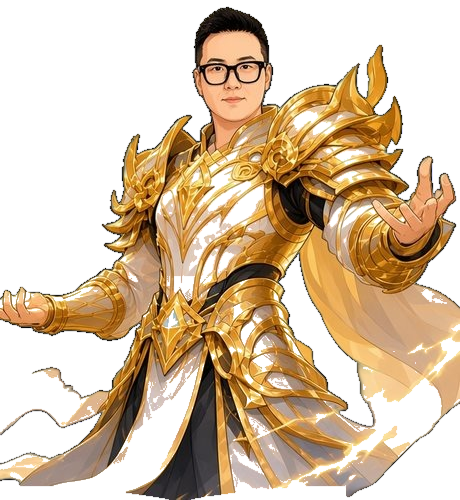
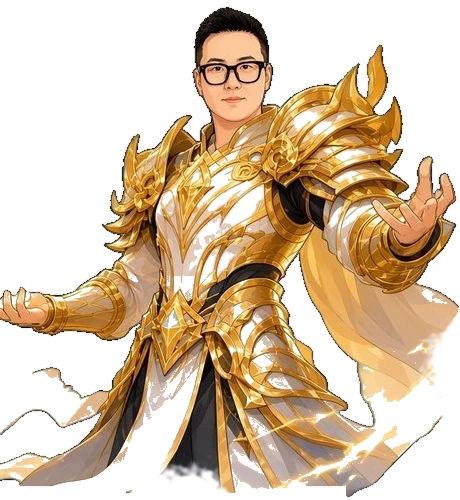
测试版：十连结果页排版和立绘边缘（xiyou-td-claude 42d8277）
Claude-Session: https://claude.ai/code/session_017LiBNHRAAN6uKehVK54nx1

Changed region(s): [[0.913, 0.6, 1.0, 0.84], [0.2739, 0.93, 0.5174, 1.0]]

diff --git a/js/depart.js b/js/depart.js
@@ -907,13 +907,26 @@
     }
     function placeFigures(list, box) {
       if (box.h < 520) {
-        var colsS = Math.min(5, Math.max(1, list.length)), rowsS = Math.ceil(list.length / colsS), placedS = [];
+        var rowsS = Math.ceil(list.length / 5), colsS = Math.max(1, Math.ceil(list.length / rowsS)), placedS = [];
         list.forEach(function (g, idx) {
           var col = idx % colsS, row = (idx / colsS) | 0, fw = box.w / colsS * 0.92, fh = box.h / rowsS * 0.92;
-          var cx = box.x + (col + 0.5) * (box.w / colsS), cy = box.y + (row + 0.55) * (box.h / rowsS);
+          var inRow = Math.min(colsS, list.length - row * colsS);                 // 最后一排人少时居中，不靠左
+          var cx = box.x + (box.w - inRow * (box.w / colsS)) / 2 + (col + 0.5) * (box.w / colsS), cy = box.y + (row + 0.55) * (box.h / rowsS);
           placedS.push({ id: g.id, n: g.n, unlock: g.unlock, label: g.label, x: cx - fw / 2, y: cy - fh / 2, w: fw, h: fh, z: row, ns: 0 });
         });
         return placedS;
+      }
+      if (land) {                                                   // 横屏大画面：五位以内站一排，再多站两排；谁也不压着谁，每人脚下留出写名字的地方
+        var nmH = Math.max(28, Math.min(44, box.h * 0.065)), rowsL = list.length <= 5 ? 1 : 2, topN = rowsL === 1 ? 0 : Math.floor(list.length / 2), rowH = box.h / rowsL, placedL = [];
+        list.forEach(function (g, idx) {
+          var row = rowsL === 1 ? 0 : (idx < topN ? 0 : 1), cnt = rowsL === 1 ? list.length : (row === 0 ? topN : list.length - topN), col = row === 0 ? idx : idx - topN;
+          var colW = box.w / Math.max(cnt, rowsL === 1 ? 3 : 4);
+          var fh = Math.min(rowH - nmH - 8, colW * 0.94 / 0.75, box.h * 0.6), fw = fh * 0.75;
+          var cx = box.x + (box.w - colW * cnt) / 2 + (col + 0.5) * colW;
+          var y = box.y + row * rowH + (rowH - nmH - fh) * (rowsL === 1 ? 0.5 : (row === 0 ? 0.75 : 0.2));
+          placedL.push({ id: g.id, n: g.n, unlock: g.unlock, label: g.label, x: cx - fw / 2, y: y, w: fw, h: fh, z: row, ns: 0 });
+        });
+        return placedL;
       }
       var unit = !land ? Math.min(box.h / 3.25, box.w * 0.42) : (short ? box.h * 0.62 : box.h * 0.52);
       var slots = XY.gacha10.rosterSlots(list.length, land);
@@ -1294,6 +1307,7 @@
       var box = { x: scroll.x + scroll.w * 0.03, y: scroll.y + scroll.h * 0.04, w: scroll.w * 0.92, h: scroll.h * 0.9 };
       if (grouped.length) {
         var placed = placeFigures(grouped, box);
+        if (!(land && box.h >= 520)) placed.forEach(function (it) { var room = Math.min(it.h * 0.16, short ? 20 : 24); it.h -= room; });   // 名字写在脚下，不再压在身上：人物让出一条
         XY.gacha10.lastCrowd = placed;
         var order = placed.slice().sort(function (a, b) { return a.z - b.z || a.y - b.y || a.x - b.x; });
         var draws = [];
@@ -1307,30 +1321,18 @@
           it.draw = d3;
           if (d3) draws.push(it);
         });
-        var names = [], audit = [], chosen = null, szTry, trial, okTry;
-        for (szTry = (short ? 18 : (land ? 26 : 14)); szTry >= 13; szTry--) {
-          trial = []; okTry = true;
-          draws.forEach(function (it) {
-            var others = [];
-            draws.forEach(function (o) { if (o !== it && o.draw) others.push(o.draw); });
-            var nm = fitOnBody(it.draw, it.body, others, it.label, szTry);
-            nm.id = it.id; nm.text = it.label; nm.unlock = it.unlock; nm.n = it.n;
-            if (it.id === 'yuanzhang' && it.body) {
-              nm.x = it.body.x + it.body.w * 0.50;
-              nm.y = it.body.y + it.body.h * 0.50;
-              nm.mist = { x: nm.x - nm.w / 2 - 4, y: nm.y - nm.h / 2 - 4, w: nm.w + 8, h: nm.h + 8, cx: nm.x, cy: nm.y, rx: nm.w / 2 + 4, ry: nm.h / 2 + 4 };
-            }
-            var stt = mistOn(it.draw, nm.mist);
-            nm.head = stt.head; nm.mistFrac = Math.round(stt.frac * 1000) / 1000;
-            if (stt.head !== 0 || stt.frac > 0.15) okTry = false;
-            trial.push(nm);
-          });
-          chosen = trial;
-          if (okTry) break;
-        }
-        chosen.forEach(function (nm) {
+        var names = [], audit = [];
+        var nmSize = Math.round(Math.max(13, Math.min(short ? 16 : (land ? 30 : 16), box.h * (land ? 0.055 : 0.03))));
+        draws.forEach(function (it) {                               // 名字写在各自脚下（毛笔字，不铺白底、不压在身上）；左右出框就往里收
+          var bd = it.body || it.draw || it, size = nmSize, text = it.label, maxW = Math.max(60, (it.w || bd.w) * 1.25);
+          c.font = size + 'px GachaBrush, KaiTi, STKaiti, serif';
+          while (size > 12 && c.measureText(text).width > maxW) { size -= 1; c.font = size + 'px GachaBrush, KaiTi, STKaiti, serif'; }
+          var tw = Math.ceil(c.measureText(text).width), th = Math.ceil(size * 1.2);
+          var x = Math.max(box.x + tw / 2 + 4, Math.min(box.x + box.w - tw / 2 - 4, bd.x + bd.w / 2));
+          var y = Math.min(box.y + box.h - th / 2 - 2, bd.y + bd.h + th * 0.62);
+          var nm = { id: it.id, text: text, lines: [text], size: size, x: x, y: y, w: tw, h: th, unlock: it.unlock, n: it.n, own: 0, other: 0, head: 0, mistFrac: 0 };
           names.push(nm);
-          audit.push({ id: nm.id, text: nm.text, own: nm.own, other: nm.other, size: nm.size, lines: (nm.lines || [nm.text]).length, head: nm.head, mist: nm.mistFrac, pass: nm.head === 0 && nm.mistFrac <= 0.15 && nm.other === 0 });
+          audit.push({ id: nm.id, text: nm.text, own: 0, other: 0, size: nm.size, lines: 1, head: 0, mist: 0, pass: true });
         });
         XY.gacha10.lastNames = names;
         XY.gacha10.lastNameAudit = audit;
@@ -1387,7 +1389,6 @@
         names.forEach(function (nm) {
           if (introOn) return;
           var lines = nm.lines || [nm.text], gap = nm.size * 1.15, y0 = nm.y - (lines.length - 1) * gap / 2, li;
-          nameMist(nm.x, nm.y, nm.w, nm.h);
           for (li = 0; li < lines.length; li++) resultInk(lines[li], nm.x, y0 + li * gap, nm.size);
           contrastRows.push({ id: nm.id, text: lines.join(''), lines: lines.slice(), size: nm.size, contrast: contrastAt(nm) });
           var hx = nm.x - nm.w / 2 - 6, hy = nm.y - nm.h / 2 - 4, hw = nm.w + 12, hh = Math.max(28, nm.h + 8);
